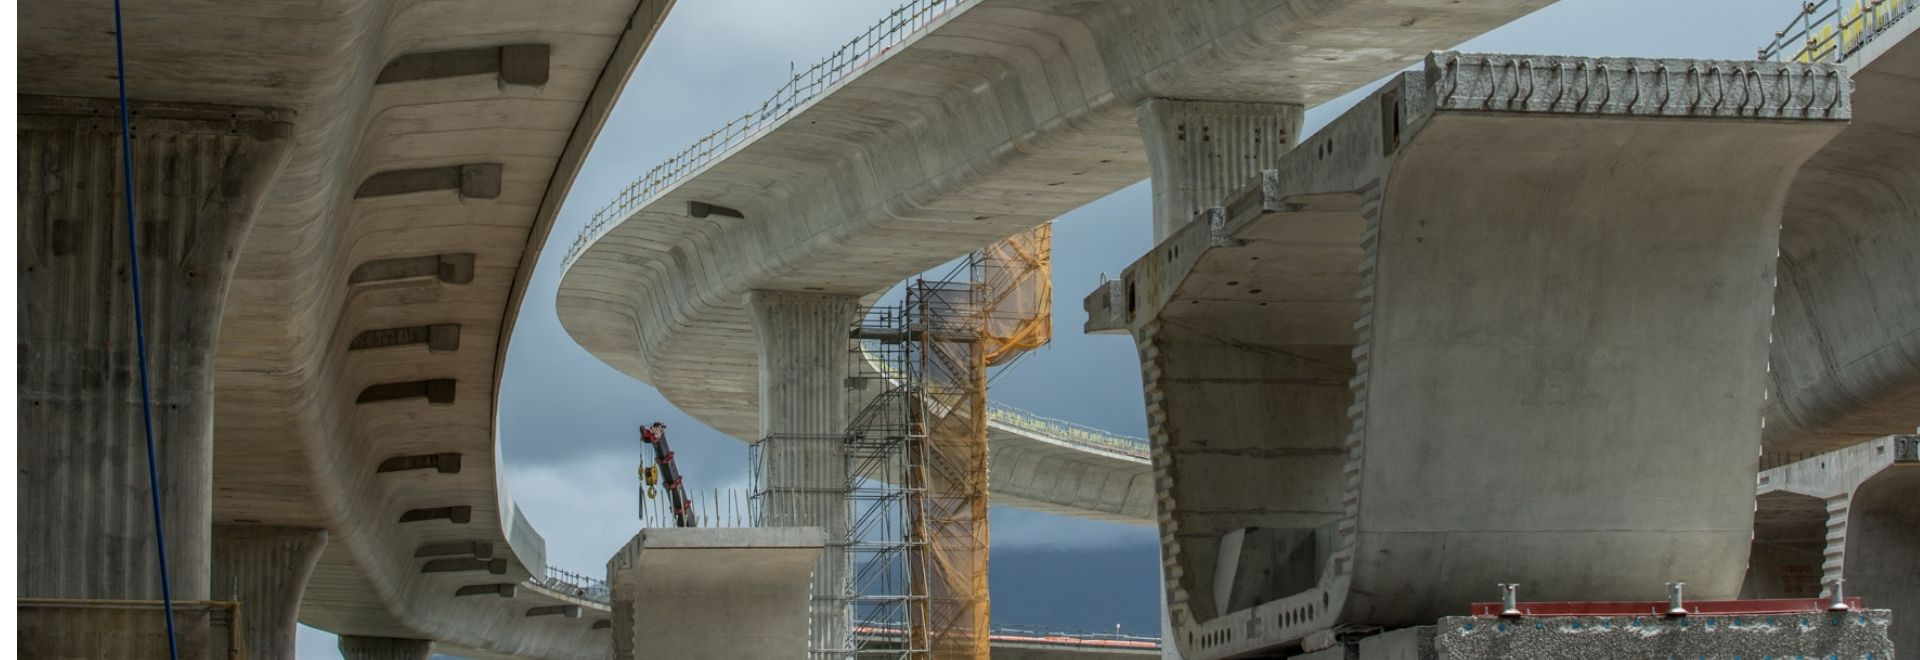
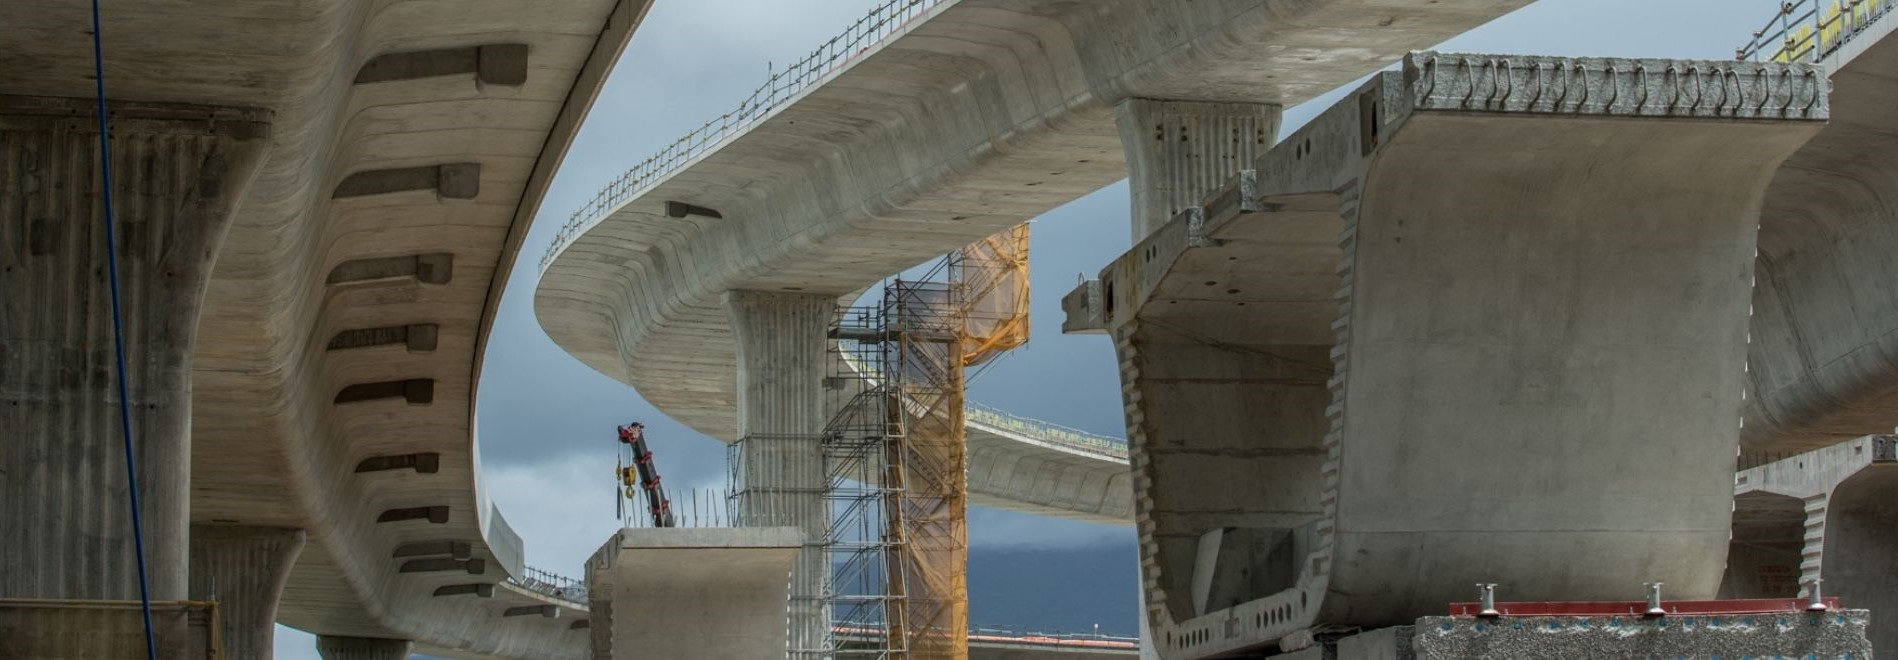
Updated

diff --git a/WebApp/ArcGIS_API_for_JavaScript/envi/Operational/N2_Portal_Home.html b/WebApp/ArcGIS_API_for_JavaScript/envi/Operational/N2_Portal_Home.html
@@ -3,7 +3,7 @@
 <head>
     <meta charset="utf-8">
     <meta name="viewport" content="initial-scale=1,maximum-scale=1,user-scalable=no">
-     <title>MMSP Portal</title>
+     <title>N2 GIS Portal</title>
 
      <style>
     html,
@@ -114,12 +114,6 @@
         height: 100%;
     }
 
-    #demolitionImage {
-        display: none;
-        width: 100%;
-        height: 100%;
-    }
-
     #treeImage {
         display: none;
         width: 100%;
@@ -132,7 +126,7 @@
         height: 100%;
     }
 
-    #tunnelImage {
+    #viaductImage {
         display: none;
         width: 100%;
         height: 100%;
@@ -177,15 +171,22 @@
             var descriptionDiv = document.getElementById("descriptionDiv");
 
             var landImage = document.getElementById("landImage");
-            var demolitionImage = document.getElementById("demolitionImage");
             var treeImage = document.getElementById("treeImage");
             var utilityImage = document.getElementById("utilityImage");
-            var tunnelImage = document.getElementById("tunnelImage");
+            var viaductImage = document.getElementById("viaductImage");
             var stationStructureImage =document.getElementById("stationStructureImage");
             var depotBuildingImage = document.getElementById("depotBuildingImage"); 
             var enviMonitoringImage = document.getElementById("enviMonitoringImage");
             
             var myLink = document.getElementById("myLink");
+
+            const smartMapSource = ["https://eijigorilla.github.io/WebApp/ArcGIS_API_for_JavaScript/envi/Operational/N2_Land_and_Structure2.html", // Land Acquisition
+                                    "https://eijigorilla.github.io/WebApp/ArcGIS_API_for_JavaScript/envi/Operational/N2_Tree_Cutting.html", // Tree Cutting
+                                    "https://eijigorilla.github.io/WebApp/ArcGIS_API_for_JavaScript/civil/Operational/N2_Utility_Relocation.html", // Utility Relocation
+                                    "https://eijigorilla.github.io/WebApp/ArcGIS_API_for_JavaScript/civil/Operational/N2_Viaduct.html", // Viaduct
+                                    "https://eijigorilla.github.io/WebApp/ArcGIS_API_for_JavaScript/civil/Operational/N2_Station_Structure.html", // Station Structure
+                                    "https://eijigorilla.github.io/WebApp/ArcGIS_API_for_JavaScript/civil/Operational/N2_Depot_Building.html", // Depot Building
+                                    "https://eijigorilla.github.io/WebApp/ArcGIS_API_for_JavaScript/envi/Operational/N2_Environment_Monitoring.html"] // Environment Monitoring]
 
             // Default: Land Acquisition
             if (document.getElementById("landAcquisition").checked === true) {
@@ -194,15 +195,13 @@
                 descriptionDiv.innerHTML = "VISUALIZING ACQUISITION OF LAND AND EXISTING STRUCTURES IN 2D MAP";
 
                 landImage.style.display = "block";
-                demolitionImage.style.display = "none";
                 treeImage.style.display = "none";
                 utilityImage.style.display = "none";
-                tunnelImage.style.display = "none";
-                tunnelImage.style.display = "none";
+                viaductImage.style.display = "none";
                 stationStructureImage.style.display = "none";
                 depotBuildingImage.style.display = "none";
 
-                myLink.setAttribute('href', "https://eijigorilla.github.io/WebApp/ArcGIS_API_for_JavaScript/envi/Operational/MMSP_Land_and_Structure.html");
+                myLink.setAttribute('href', smartMapSource[0]);
             }
 
             // AddEventListener
@@ -215,31 +214,14 @@
                     descriptionDiv.innerHTML = "VISUALIZING ACQUISITION OF LAND AND EXISTING STRUCTURES IN 2D MAP";
 
                     landImage.style.display = "block";
-                    demolitionImage.style.display = "none";
                     treeImage.style.display = "none";
                     utilityImage.style.display = "none";
-                    tunnelImage.style.display = "none";
+                    viaductImage.style.display = "none";
                     stationStructureImage.style.display = "none";
                     depotBuildingImage.style.display = "none";
                     enviMonitoringImage.style.display = "none";
 
-                    myLink.setAttribute('href', "https://eijigorilla.github.io/WebApp/ArcGIS_API_for_JavaScript/envi/Operational/MMSP_Land_and_Structure.html");
-
-                } else if (selected === "demolition") {
-                    mapTitleDiv.innerHTML = "Demolition";
-                    catchyTitleDiv.innerHTML = "MAPPING DEMOLITION";
-                    descriptionDiv.innerHTML = "VISUALIZING DEMOLITION OF EXISTING STRUCTURE";
-
-                    landImage.style.display = "none";
-                    demolitionImage.style.display = "block";
-                    treeImage.style.display = "none";
-                    utilityImage.style.display = "none";
-                    tunnelImage.style.display = "none";
-                    stationStructureImage.style.display = "none";
-                    depotBuildingImage.style.display = "none";
-                    enviMonitoringImage.style.display = "none";
-
-                    myLink.setAttribute('href', "https://gis.railway-sector.com/portal/apps/opsdashboard/index.html#/55002a9e0abb4eb7bf17f85a6c59210e");
+                    myLink.setAttribute('href', smartMapSource[0]);
 
                 } else if (selected === "treeCutting") {
                     mapTitleDiv.innerHTML = "Tree Cutting & Compensation";
@@ -247,15 +229,14 @@
                     descriptionDiv.innerHTML = "VISUALIZING STATUS OF TREE CUTTING/EARTH-BALLING, AND TREE COMPENSATION";
 
                     landImage.style.display = "none";
-                    demolitionImage.style.display = "none";
                     treeImage.style.display = "block";
                     utilityImage.style.display = "none";
-                    tunnelImage.style.display = "none";
+                    viaductImage.style.display = "none";
                     stationStructureImage.style.display = "none";
                     depotBuildingImage.style.display = "none";
                     enviMonitoringImage.style.display = "none";
 
-                    myLink.setAttribute('href', "https://eijigorilla.github.io/WebApp/ArcGIS_API_for_JavaScript/envi/Operational/MMSP_Tree_Cutting.html");
+                    myLink.setAttribute('href', smartMapSource[1]);
                     
                 } else if (selected === "utilityRelocation") {
                     mapTitleDiv.innerHTML = "Utility Relocation";
@@ -263,31 +244,29 @@
                     descriptionDiv.innerHTML = "VISUALIZING UTILITY RELOCATION STATUS";
 
                     landImage.style.display = "none";
-                    demolitionImage.style.display = "none";
                     treeImage.style.display = "none";
                     utilityImage.style.display = "block";
-                    tunnelImage.style.display = "none";
+                    viaductImage.style.display = "none";
                     stationStructureImage.style.display = "none";
                     depotBuildingImage.style.display = "none";
                     enviMonitoringImage.style.display = "none";
 
-                    myLink.setAttribute('href', "https://eijigorilla.github.io/WebApp/ArcGIS_API_for_JavaScript/civil/Operational/MMSP_Utility_Relocation.html");
+                    myLink.setAttribute('href', smartMapSource[2]);
 
-                }  else if (selected === "tunnelConstruction") {
-                    mapTitleDiv.innerHTML = "3D Tunnel Construction";
-                    catchyTitleDiv.innerHTML = "LOCATION OF CONSTRUCTED TUNNEL SEGEMENTS IN 3D";
-                    descriptionDiv.innerHTML = "VISUALIZING TUNNEL CONSTRUCTION VIA TBM/NATM & DILAPIDATION SURVEY STATUS";
+                }  else if (selected === "viaductConstruction") {
+                    mapTitleDiv.innerHTML = "Viaduct Construction";
+                    catchyTitleDiv.innerHTML = "3D VIADUCT CONSTRUCTION";
+                    descriptionDiv.innerHTML = "VISUALIZING VIADUCT CONSTRUCTION STATUS FOR PILE, PILE CAP, PIER, PIER HEAD, AND PRECAST";
 
                     landImage.style.display = "none";
-                    demolitionImage.style.display = "none";
                     treeImage.style.display = "none";
                     utilityImage.style.display = "none";
-                    tunnelImage.style.display = "block";
+                    viaductImage.style.display = "block";
                     stationStructureImage.style.display = "none";
                     depotBuildingImage.style.display = "none";
                     enviMonitoringImage.style.display = "none";
 
-                    myLink.setAttribute('href', "https://eijigorilla.github.io/WebApp/ArcGIS_API_for_JavaScript/civil/Operational/MMSP_Tunnel_Construction.html");
+                    myLink.setAttribute('href', smartMapSource[3]);
 
                 }  else if (selected === "stationStructure") {
                     mapTitleDiv.innerHTML = "Station Structure";
@@ -295,15 +274,14 @@
                     descriptionDiv.innerHTML = "VISUALIZING CONSTRUCTINO STATUS OF STATION STRUCTURES";
                     
                     landImage.style.display = "none";
-                    demolitionImage.style.display = "none";
                     treeImage.style.display = "none";
                     utilityImage.style.display = "none";
-                    tunnelImage.style.display = "none";
+                    viaductImage.style.display = "none";
                     stationStructureImage.style.display = "block";
                     depotBuildingImage.style.display = "none";
                     enviMonitoringImage.style.display = "none";
                     
-                    myLink.setAttribute('href', "https://eijigorilla.github.io/WebApp/ArcGIS_API_for_JavaScript/civil/Operational/MMSP_Station_Structures.html");
+                    myLink.setAttribute('href', smartMapSource[4]);
 
                 } else if (selected === "depotBuilding") {
                     mapTitleDiv.innerHTML = "Depot Building";
@@ -311,15 +289,14 @@
                     descriptionDiv.innerHTML = "VISUALIZING CONSTRUCTION STATUS OF DEPOT BUILDINGS";
                     
                     landImage.style.display = "none";
-                    demolitionImage.style.display = "none";
                     treeImage.style.display = "none";
                     utilityImage.style.display = "none";
-                    tunnelImage.style.display = "none";
+                    viaductImage.style.display = "none";
                     stationStructureImage.style.display = "none";
                     depotBuildingImage.style.display = "block";
                     enviMonitoringImage.style.display = "none";
                     
-                    myLink.setAttribute('href', "https://eijigorilla.github.io/WebApp/ArcGIS_API_for_JavaScript/civil/Operational/MMSP_Depot_Building.html");
+                    myLink.setAttribute('href', smartMapSource[5]);
 
                 } else if (selected === "enviMonitoring") {
                     mapTitleDiv.innerHTML = "Environment Monitoring";
@@ -327,15 +304,14 @@
                     descriptionDiv.innerHTML = "VISUALIZING MONITORING STATUS OF ENVIRONMENT INDICATORS DURING CONSTRUCTION";
                     
                     landImage.style.display = "none";
-                    demolitionImage.style.display = "none";
                     treeImage.style.display = "none";
                     utilityImage.style.display = "none";
-                    tunnelImage.style.display = "none";
+                    viaductImage.style.display = "none";
                     stationStructureImage.style.display = "none";
                     depotBuildingImage.style.display = "none";
                     enviMonitoringImage.style.display = "block";
                     
-                    myLink.setAttribute('href', "https://gis.railway-sector.com/portal/apps/opsdashboard/index.html#/1d5a99f80cb241ad8c9f5ef6e53595f5");
+                    myLink.setAttribute('href', smartMapSource[6]);
                 }
             }
         });
@@ -346,12 +322,11 @@
 </head>
 <body>
 <div id="viewDiv">
-    <div id="viewTitleDiv">METRO MANILA SUBWAY PROJECT</div>
+    <div id="viewTitleDiv">NSCR-Ex Project: N2</div>
     <img id="landImage" src="https://EijiGorilla.github.io/Symbols/Land_Acquisition_Image.jpg">
-    <img id="demolitionImage" src="https://EijiGorilla.github.io/Symbols/Demolition_Image.jpg">
     <img id="treeImage" src="https://EijiGorilla.github.io/Symbols/Tree_Cutting_Image.jpg">
     <img id="utilityImage" src="https://EijiGorilla.github.io/Symbols/Utility_Diversion_Image.jpg">
-    <img id="tunnelImage" src="https://EijiGorilla.github.io/Symbols/Tunnel_Image.png">
+    <img id="viaductImage" src="https://EijiGorilla.github.io/Symbols/Viaduct_Image.jpg">
     <img id="stationStructureImage" src="https://EijiGorilla.github.io/Symbols/Station_Structure_Image.jpg">
     <img id="depotBuildingImage" src="https://EijiGorilla.github.io/Symbols/Depot_Building_Image.jpg">
     <img id="enviMonitoringImage" src="https://EijiGorilla.github.io/Symbols/Environment_Monitoring_Image.jpg">
@@ -360,13 +335,12 @@
         <div id="mapTitleDiv"></div>
         <div id="catchyTitleDiv"></div>
         <div id="descriptionDiv"></div>
-        <button id="mapLinkButton" class="favorite styled" type="button"><a href="https://eijigorilla.github.io/WebApp/ArcGIS_API_for_JavaScript/envi/Operational/MMSP_Land_and_Structure.html" id="myLink" style="text-decoration: none;" target="_blank">VIEW MAP</a></button>
+        <button id="mapLinkButton" class="favorite styled" type="button"><a href="https://eijigorilla.github.io/WebApp/ArcGIS_API_for_JavaScript/envi/Operational/N2_Land_and_Structure2.html" id="myLink" style="text-decoration: none;" target="_blank">VIEW MAP</a></button>
         <div id="mapTypeInput">
             <input type="radio" id="landAcquisition" name="mapTypeInput" checked/>
-            <input type="radio" id="demolition" name="mapTypeInput">
             <input type="radio" id="treeCutting" name="mapTypeInput">
             <input type="radio" id="utilityRelocation" name="mapTypeInput">
-            <input type="radio" id="tunnelConstruction" name="mapTypeInput">
+            <input type="radio" id="viaductConstruction" name="mapTypeInput">
             <input type="radio" id="stationStructure" name="mapTypeInput">
             <input type="radio" id="depotBuilding" name="mapTypeInput">
             <input type="radio" id="enviMonitoring" name="mapTypeInput">
